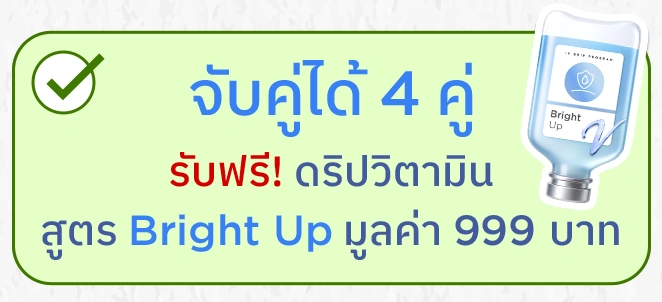
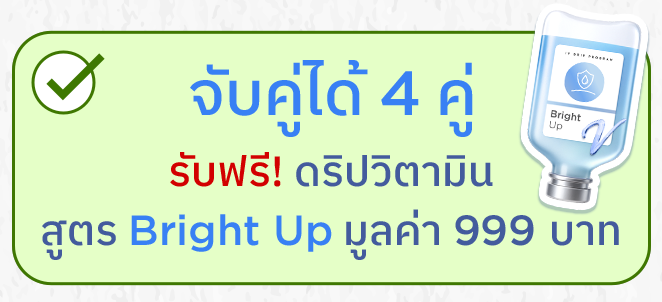
fix: take product images in the prize-won overlays from the Photoshop render
psd-tools draws no Drop Shadow, and under force=True it traces the Aestox
vial's stroke from the layer's vector mask, which cut the vial's side and
drew the box border through it. The won-state group is now rendered
without its product, the product's drop shadow is painted onto it from the
product's silhouette, and the composite's own product pixels are pasted
through that silhouette. A self-check fails the script if the overlay
differs from the composite inside the silhouette shrunk by 2 px.

The two overlays are encoded losslessly, which keeps the coloured edges
sharp: the "first prize won" region goes from 4.97 to 1.75 (limit 5.0).

diff --git a/tools/extract_assets.py b/tools/extract_assets.py
@@ -19,7 +19,7 @@ import sys
 from pathlib import Path
 
 import numpy as np
-from PIL import Image
+from PIL import Image, ImageFilter
 from psd_tools import PSDImage
 
 # Thai layer names must not crash the Windows console.
@@ -64,8 +64,34 @@ PATCH_MIN_ALPHA = 250
 RING_WIDTH = 3
 RING_MAX_MEAN_DIFF = 2.0
 
+# Prize boxes in their won state: (normal-state group, product sub-group, stage
+# area, file name). The won-state group is the same name plus " active", and
+# holds the same product sub-group: the picture, its white stroke and (box 2)
+# the red tag, identical artwork in both states.
+PRIZES: list[tuple[str, str, Box, str]] = [
+    ("Box_1", "Group 10", BOX1_ACTIVE, "box1-active.webp"),
+    ("Box_2", "Group 11", BOX2_ACTIVE, "box2-active.webp"),
+]
+# Inside the product's silhouette shrunk by this many px, an overlay must equal
+# the composite to within this mean difference per channel.
+PRODUCT_SHRINK = 2
+PRODUCT_MAX_MEAN_DIFF = 1.0
+# The product sub-group's Drop Shadow, which psd-tools does not draw. The PSD
+# gives colour #67849d, opacity 43%, Normal blend, angle 90 (straight down),
+# distance 3 px, size 3 px, spread 33%. Size and spread are drawn as a Gaussian
+# blur and a gain on the blurred matte, fitted to the products' shadows on the
+# white boxes in the composite: a mean error of 0.004 in shadow alpha.
+PRODUCT_SHADOW_COLOUR = (0x67, 0x84, 0x9D)
+PRODUCT_SHADOW_OPACITY = 0.43
+PRODUCT_SHADOW_OFFSET = 3  # px down
+PRODUCT_SHADOW_SIGMA = 1.2  # px
+PRODUCT_SHADOW_GAIN = 2.0
+
 STAGE_BG_MAX_BYTES = 3_000_000
 WEBP_OPTIONS = {"quality": 95, "method": 6}
+# Lossy WebP halves colour resolution, which smears the prize boxes' green
+# border and coloured text; lossless keeps them sharp for a few kB more.
+OVERLAY_WEBP_OPTIONS = {"lossless": True, "quality": 100, "method": 6}
 # Layer renders carry a generated "sRGB built-in" profile whose bytes change on
 # every run; the pixels are already sRGB, so leave it out to keep files stable.
 PNG_OPTIONS = {"optimize": True, "icc_profile": None}
@@ -111,13 +137,14 @@ def reveal(layer) -> None:
         layer = layer.parent
 
 
-def render(layer, viewport: Box, label: str) -> Image.Image:
+def render(layer, viewport: Box, label: str, force: bool = True) -> Image.Image:
     """Render a layer or group into an RGBA image the size of the viewport.
 
     Always pass a viewport: hidden groups report a zero-size bounding box.
+    `force=False` builds each layer from the pixels Photoshop stored for it.
     """
     reveal(layer)
-    image = layer.composite(viewport=viewport, force=True)
+    image = layer.composite(viewport=viewport, force=force)
     expected = (viewport[2] - viewport[0], viewport[3] - viewport[1])
     if image is None or image.size != expected:
         got = None if image is None else image.size
@@ -165,17 +192,90 @@ def apply_paper_patch(psd: PSDImage, stage: Image.Image, composite: Image.Image,
     stage.paste(patched, box[:2])
 
 
+def product_silhouette(psd: PSDImage, group_name: str, product_name: str,
+                       box: Box) -> Image.Image:
+    """Coverage (L) of a prize's product sub-group, stroke and tag included.
+
+    Rendered from the pixels Photoshop stored: under force=True psd-tools traces
+    the vial's stroke from its vector mask, a clipping quadrilateral, rather
+    than from the vial, which cuts the vial's side and leaves gaps.
+    """
+    product = find_layer(psd, (group_name, product_name))
+    return render(product, box, f"{group_name}/{product_name}", force=False).getchannel("A")
+
+
+def product_shadow(silhouette: Image.Image) -> np.ndarray:
+    """Alpha (0-1, height x width x 1) of the drop shadow the product casts."""
+    width, height = silhouette.size
+    moved = Image.new("L", silhouette.size, 0)
+    moved.paste(silhouette.crop((0, 0, width, height - PRODUCT_SHADOW_OFFSET)),
+                (0, PRODUCT_SHADOW_OFFSET))
+    matte = np.asarray(moved.filter(ImageFilter.GaussianBlur(PRODUCT_SHADOW_SIGMA)),
+                       dtype=np.float64) / 255
+    return (PRODUCT_SHADOW_OPACITY * np.minimum(matte * PRODUCT_SHADOW_GAIN, 1.0))[..., None]
+
+
+def prize_won_overlay(psd: PSDImage, composite: Image.Image, group_name: str,
+                      product_name: str, box: Box) -> Image.Image:
+    """A prize box in its won state, with the product as Photoshop drew it.
+
+    The won-state group is rendered without its product, the product's drop
+    shadow is painted onto it, and the result goes over the composite crop. The
+    composite's own product pixels are then pasted through the product's exact
+    silhouette, so none of the normal state's white fill comes with them.
+    """
+    active = find_layer(psd, (f"{group_name} active",))
+    active_product = find_layer(active, (product_name,))
+    was_visible = active_product.visible
+    active_product.visible = False
+    won = np.asarray(render(active, box, f"{group_name} active"), dtype=np.float64)
+    active_product.visible = was_visible
+
+    silhouette = product_silhouette(psd, group_name, product_name, box)
+    shadow = product_shadow(silhouette)
+    won[..., :3] = won[..., :3] * (1 - shadow) + np.array(PRODUCT_SHADOW_COLOUR) * shadow
+    won_image = Image.fromarray(np.rint(won).astype(np.uint8), "RGBA")
+
+    crop = composite.crop(box)
+    image = Image.composite(crop, overlay(composite, box, won_image), silhouette)
+    check_product(f"{group_name} active", image, crop, silhouette)
+    return image
+
+
+def check_product(label: str, image: Image.Image, composite_crop: Image.Image,
+                  silhouette: Image.Image) -> None:
+    """Inside the product's silhouette, shrunk a little, the overlay is the composite."""
+    covered = silhouette.point(lambda v: 255 if v else 0)
+    inner = np.asarray(covered.filter(ImageFilter.MinFilter(2 * PRODUCT_SHRINK + 1))) > 0
+    if not inner.any():
+        raise ExtractError(f"{label}: the product silhouette shrunk by {PRODUCT_SHRINK}px is empty")
+    ours = np.asarray(image.convert("RGB"), dtype=np.float64)[inner]
+    theirs = np.asarray(composite_crop.convert("RGB"), dtype=np.float64)[inner]
+    diff = np.abs(ours - theirs).mean(axis=0)
+    values = ", ".join(f"{c}={d:.2f}" for c, d in zip("RGB", diff))
+    if diff.max() > PRODUCT_MAX_MEAN_DIFF:
+        raise ExtractError(
+            f"{label}: inside the product silhouette shrunk by {PRODUCT_SHRINK}px "
+            f"({int(inner.sum())} px) the overlay differs from the composite by mean {values} "
+            f"(limit {PRODUCT_MAX_MEAN_DIFF} per channel)"
+        )
+    print(f"{label}: product silhouette shrunk by {PRODUCT_SHRINK}px ({int(inner.sum())} px), "
+          f"mean diff from the composite {values}")
+
+
 class Writer:
     """Saves images, checks their pixel size and records what was written."""
 
     def __init__(self) -> None:
         self.written: list[tuple[Path, tuple[int, int], int]] = []
 
-    def save(self, image: Image.Image, path: Path, expected_size: tuple[int, int]) -> int:
+    def save(self, image: Image.Image, path: Path, expected_size: tuple[int, int],
+             options: dict | None = None) -> int:
         if image.size != expected_size:
             raise ExtractError(f"{path.name}: size {image.size}, expected {expected_size}")
         path.parent.mkdir(parents=True, exist_ok=True)
-        options = WEBP_OPTIONS if path.suffix == ".webp" else PNG_OPTIONS
+        if options is None:
+            options = WEBP_OPTIONS if path.suffix == ".webp" else PNG_OPTIONS
         image.save(path, **options)
         size = path.stat().st_size
         self.written.append((path, image.size, size))
@@ -216,14 +316,14 @@ def extract(psd_path: Path, out_dir: Path, icons_dir: Path, refs_dir: Path) -> N
     if stage_bytes > STAGE_BG_MAX_BYTES:
         raise ExtractError(f"stage-bg.webp is {stage_bytes:,} bytes, limit {STAGE_BG_MAX_BYTES:,}")
 
-    # 5. Hidden groups drawn over the untouched composite.
-    for group_name, box, path in [
-        ("Box_1 active", BOX1_ACTIVE, out_dir / "box1-active.webp"),
-        ("Box_2 active", BOX2_ACTIVE, out_dir / "box2-active.webp"),
-        ("เวลา", TIMER_NORMAL, refs_dir / "timer-normal.png"),
-    ]:
-        group = render(find_layer(psd, (group_name,)), box, group_name)
-        writer.save(overlay(composite, box, group), path, size_of(box))
+    # 5. Hidden groups drawn over the untouched composite: the prizes won, then
+    #    the timer with time left.
+    for group_name, product_name, box, file_name in PRIZES:
+        image = prize_won_overlay(psd, composite, group_name, product_name, box)
+        writer.save(image, out_dir / file_name, size_of(box), OVERLAY_WEBP_OPTIONS)
+    timer = render(find_layer(psd, ("เวลา",)), TIMER_NORMAL, "เวลา")
+    writer.save(overlay(composite, TIMER_NORMAL, timer), refs_dir / "timer-normal.png",
+                size_of(TIMER_NORMAL))
 
     # 6. Transparent sprites.
     restart = find_layer(psd, ("BT เริ่มเกมส์ใหม่", "Vector Smart Object"))
